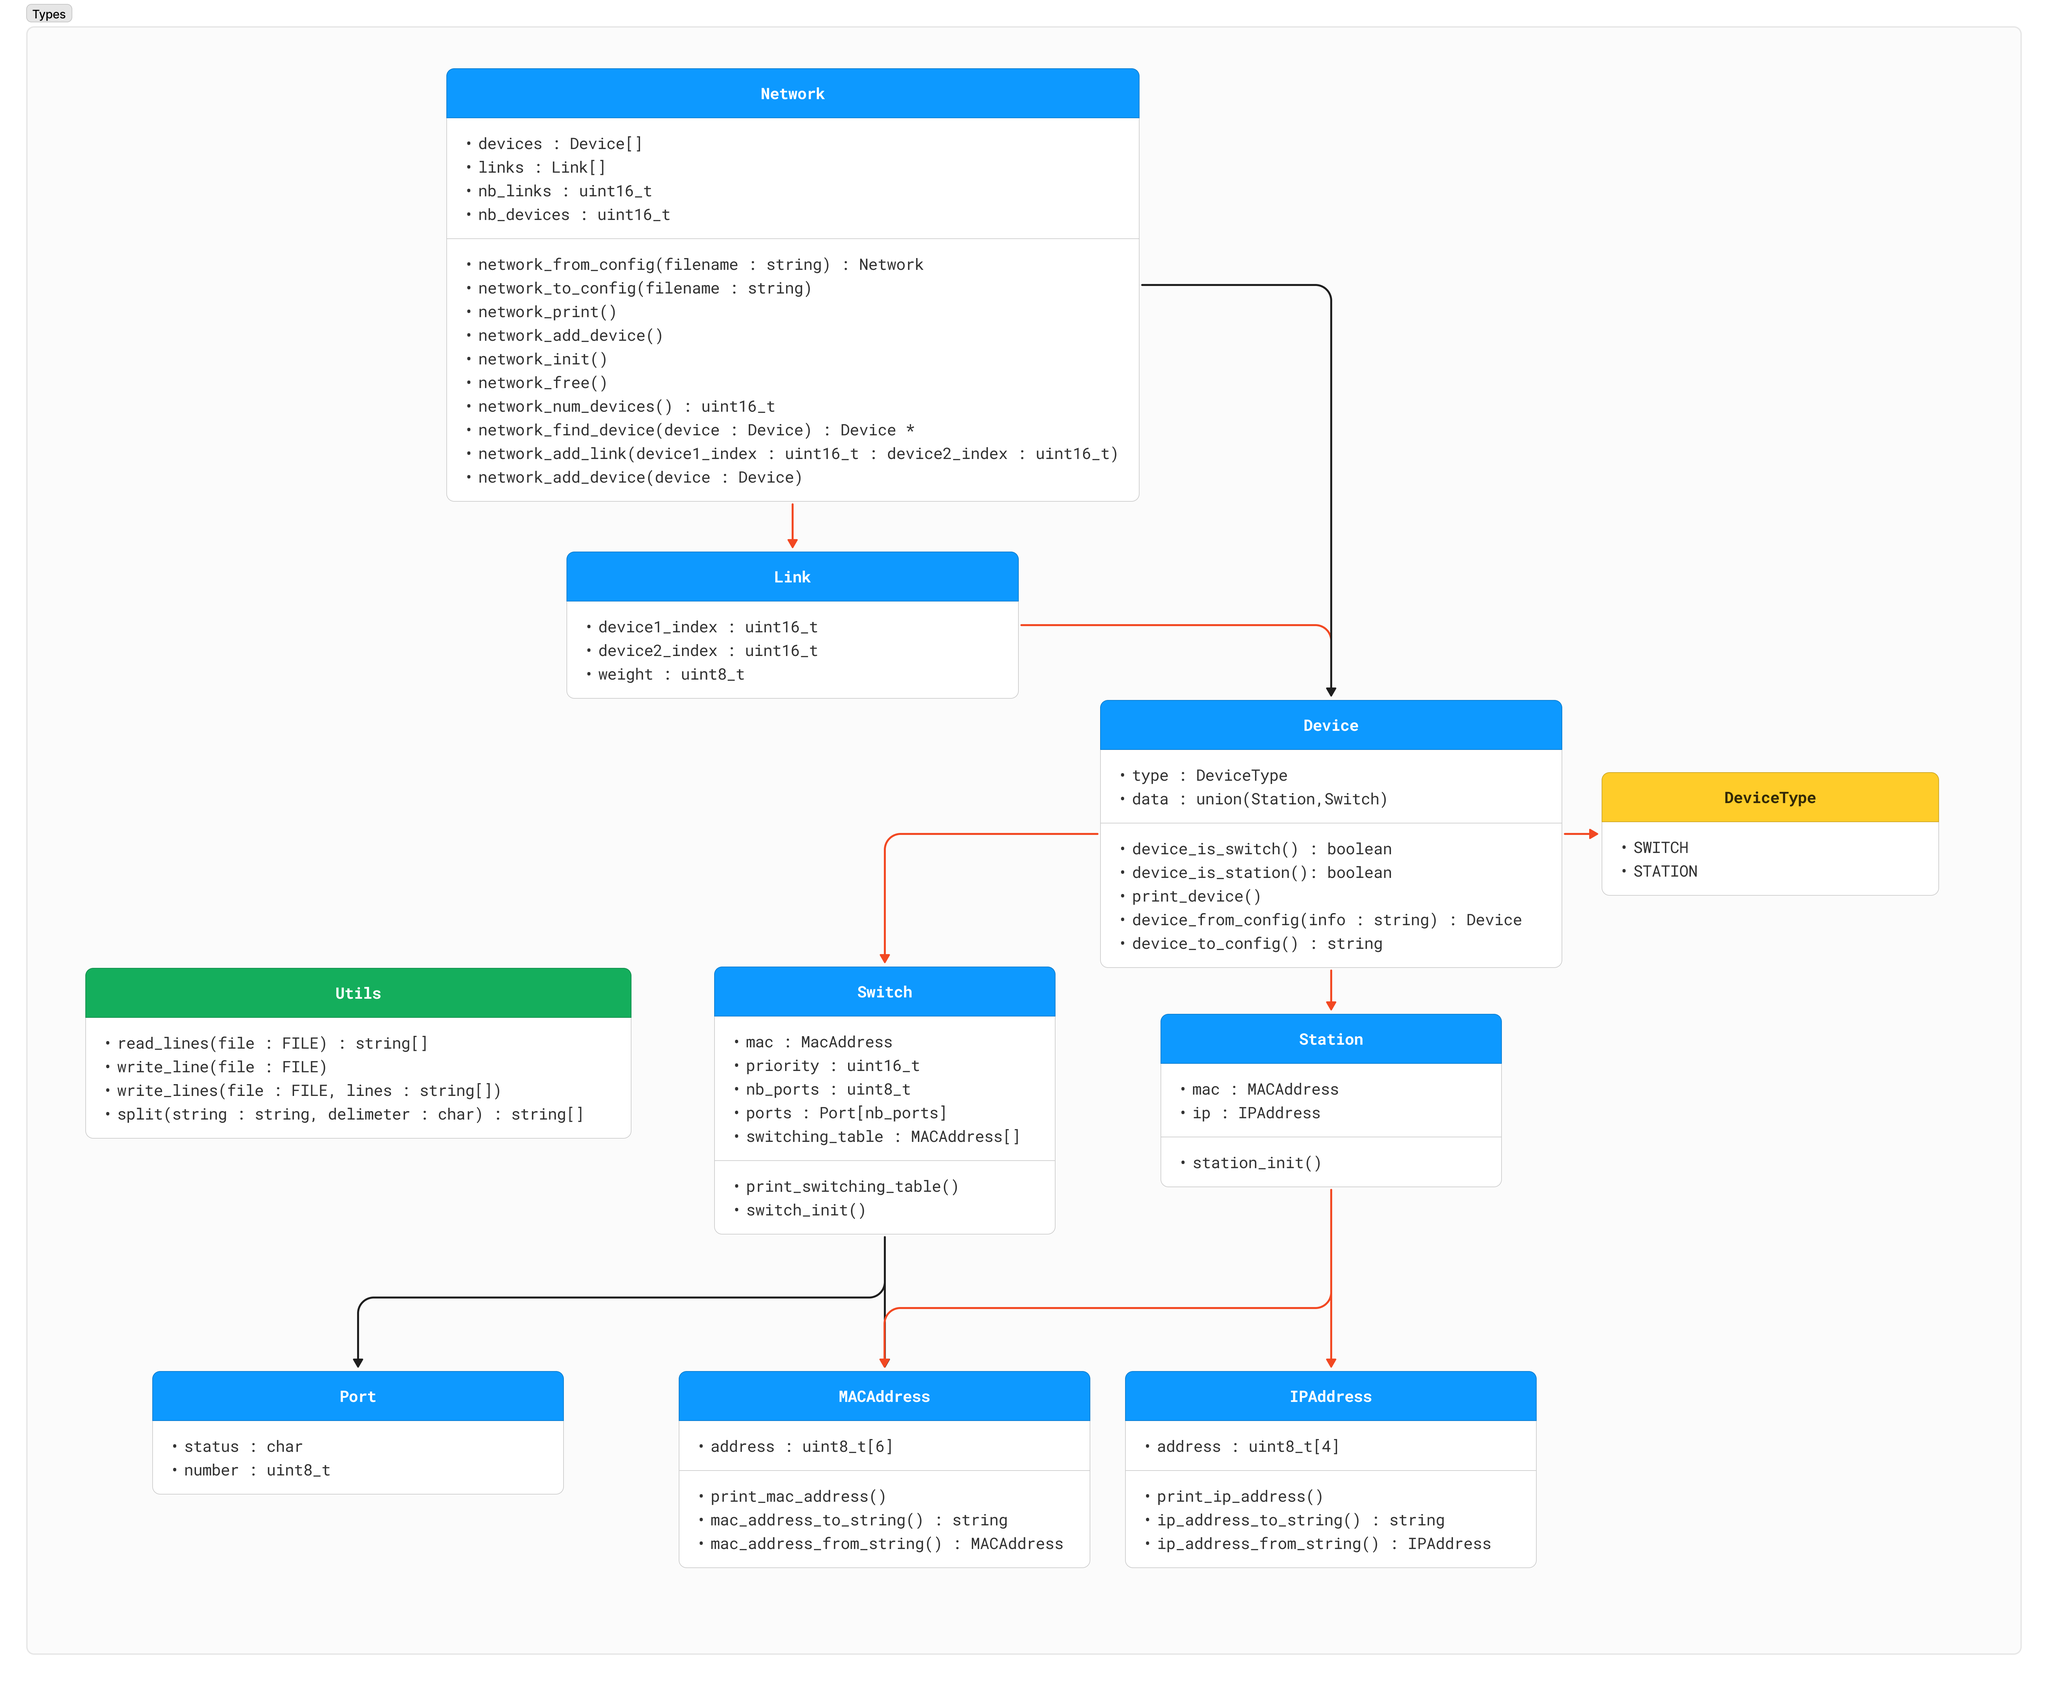
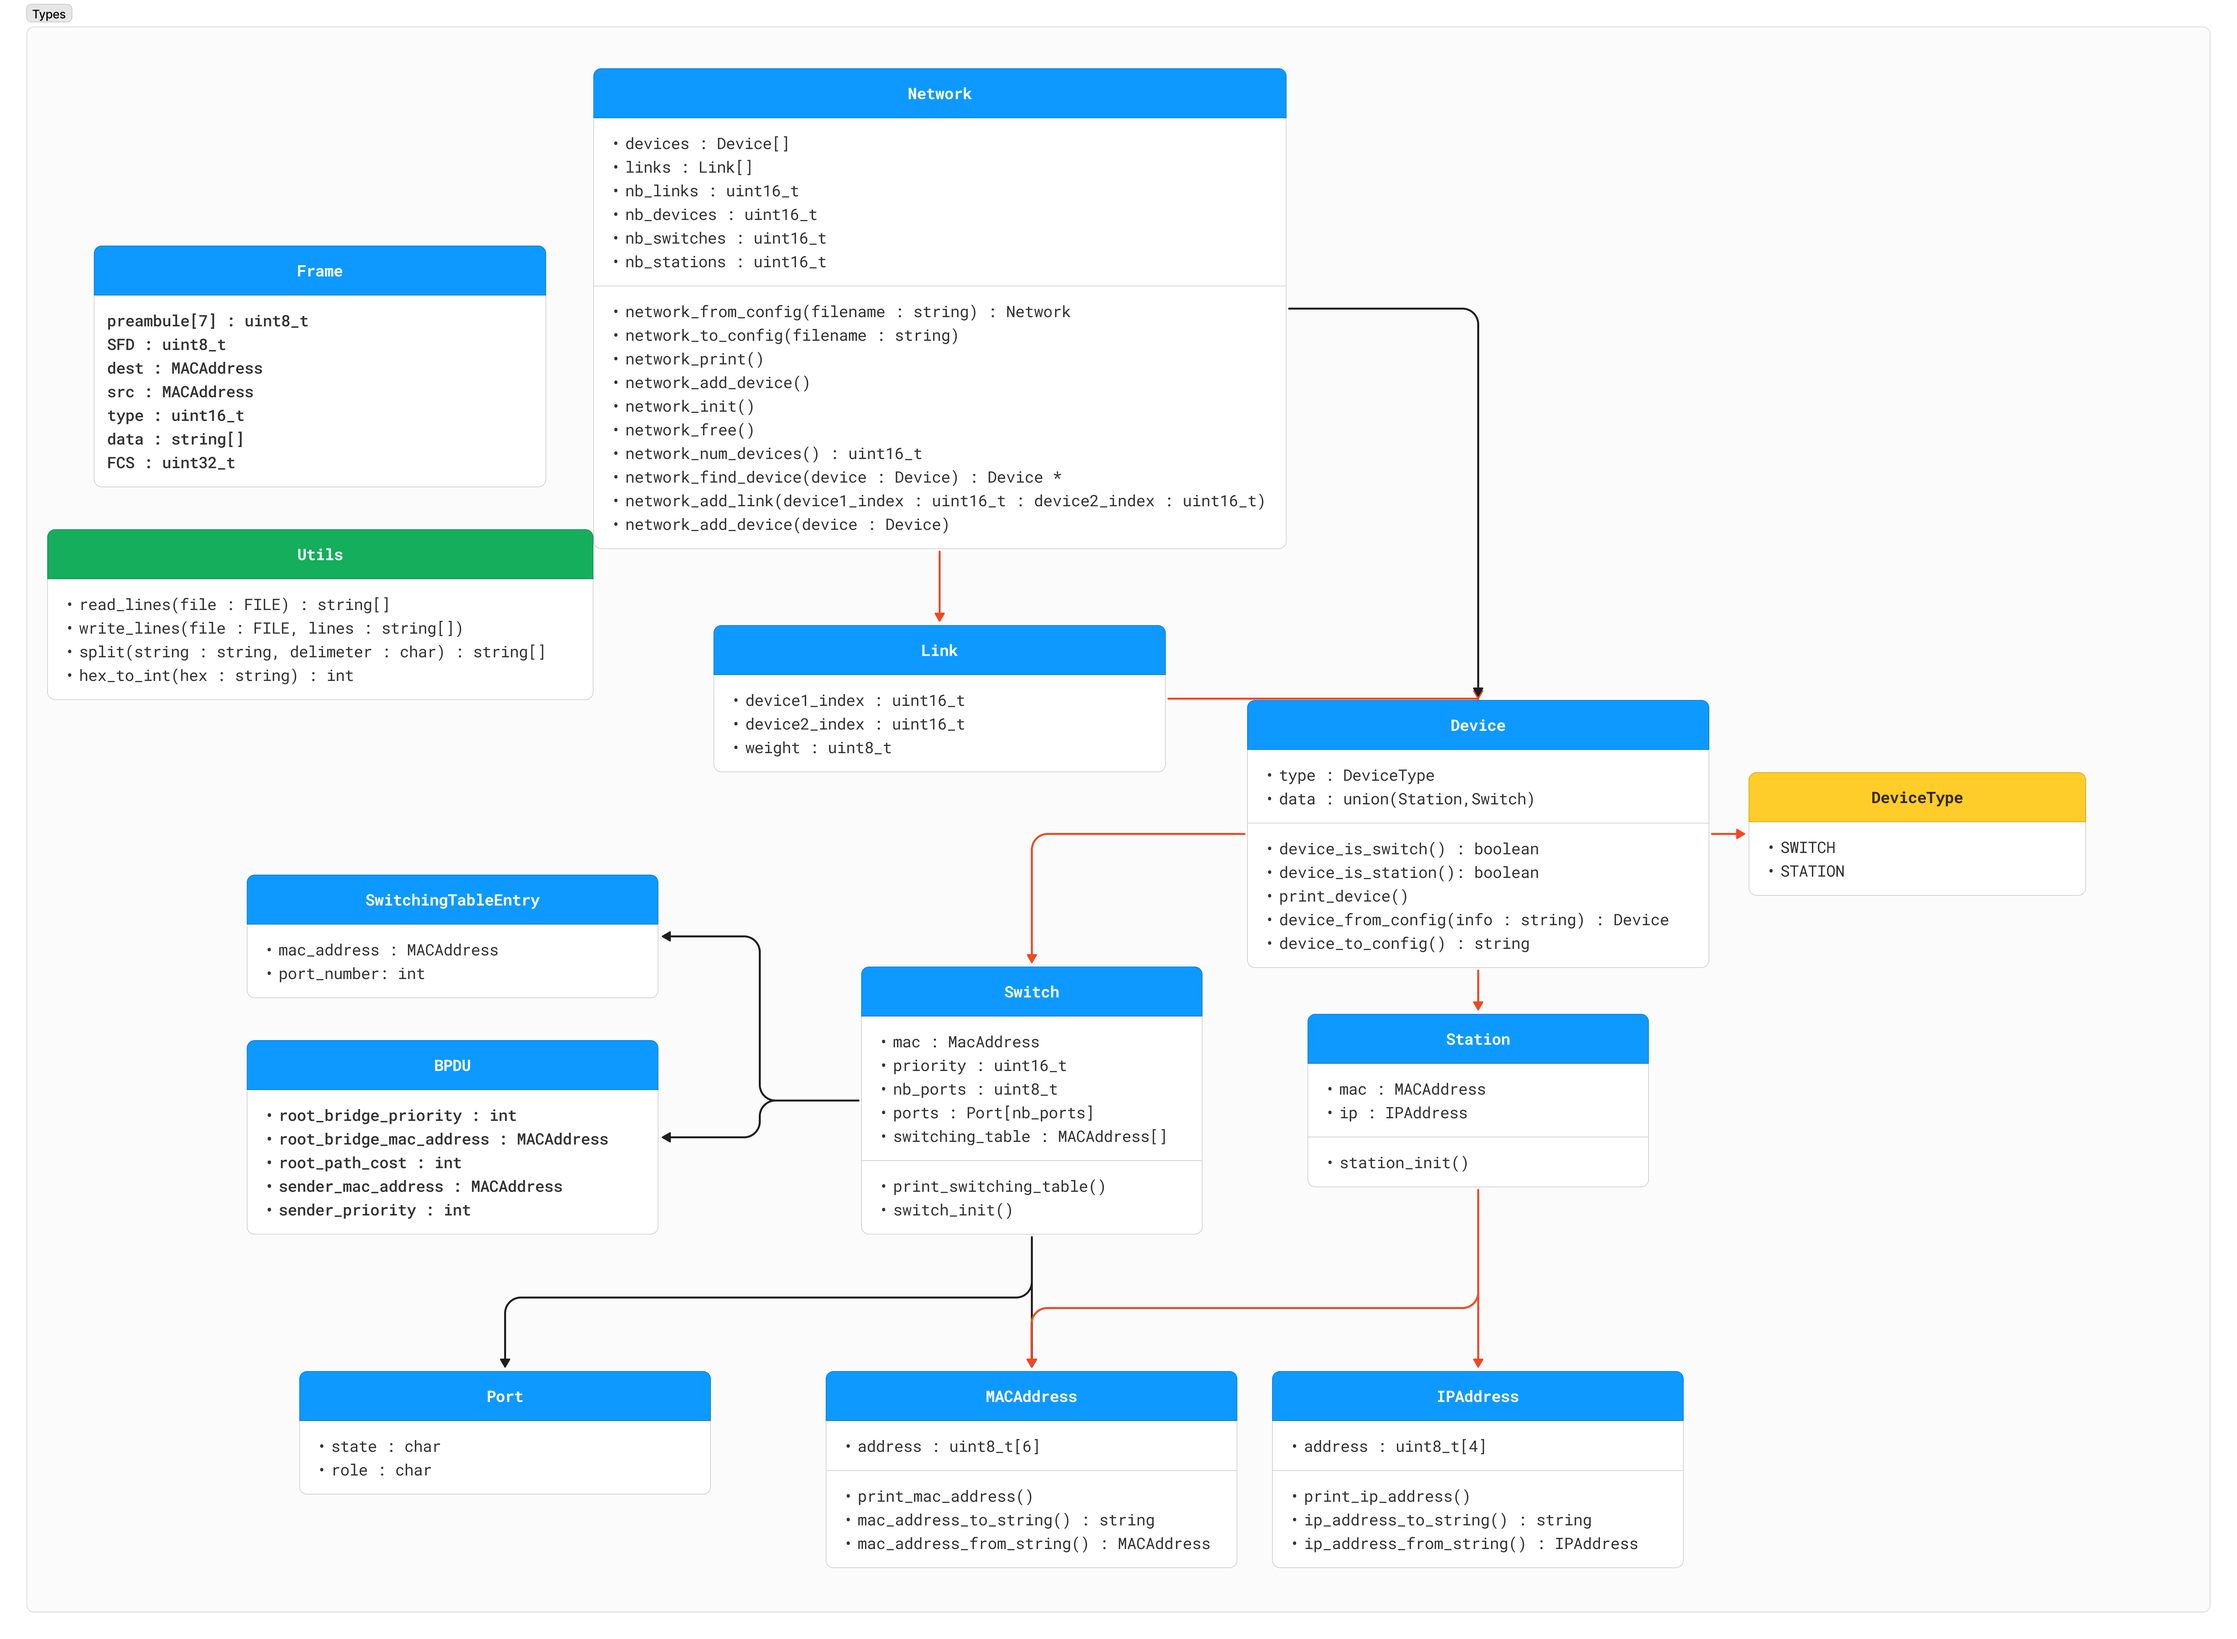
Added README.md

diff --git a/src/device.c b/src/device.c
@@ -48,7 +48,7 @@ void switch_init(Device *device, MACAddress mac_address, uint16_t priority, uint
     for (int i = 0; i < num_ports; i++)
     {
         device->switch_info.ports[i].state = 'F';
-        device->switch_info.ports[i].role = 'D';
+        device->switch_info.ports[i].role = 'U';
     }
     device->switch_info.switching_table_entries = 0;
     assign_bpdu(device);
@@ -271,6 +271,12 @@ void switch_print_ports(Switch switch_)
         {
             printf("\033[1;31m");
             printf("%c", switch_.ports[i].role);
+            printf("\033[0m");
+        }
+        if (switch_.ports[i].role == 'U')
+        {
+            printf("\033[1;35m");
+            printf(" ");
             printf("\033[0m");
         }
         printf("   |\n");

diff --git a/src/bpdu.c b/src/bpdu.c
@@ -152,6 +152,13 @@ bool update_bpdu(Network *network, Device *device, Device *previous_device, BPDU
  */
 void send_bpdu(Network *network, Device *device)
 {
+    // COLOR BLUE
+    printf("\033[0;34m");
+    printf("Sending BPDU from ");
+    printf("\033[0m");
+    print_device(device);
+    printf("Current ");
+    print_bpdu(&device->switch_info.bpdu);
     Device *connected_devices[256];
     uint16_t nb = find_connected_devices(network, device->index, connected_devices);
     for (int i = 0; i < nb; i++)

diff --git a/README.md b/README.md
@@ -9,4 +9,12 @@
 - Functions that are there, but shouldn't be called directly, or have obscure uses, or whatever: one or more - underscores at the beginning: **\_refrobnicate_data_tables()**, **\_destroy_cache()**.
 
 ## To Compile and Execute:
-` make | ./bin/main `
+
+`make | ./bin/main`
+
+## What we accomplished:
+
+- Vous trouverez dans le dossier diagram, le diagramme de structure de notre projet.
+- On échange les données entre les différents équipements du réseau.
+- On a implémenté le STP (Spanning Tree Protocol) pour éviter les boucles dans le réseau.
+- On arrive à afficher des trames en mode utilisateur et en mode Hexadécimal.
